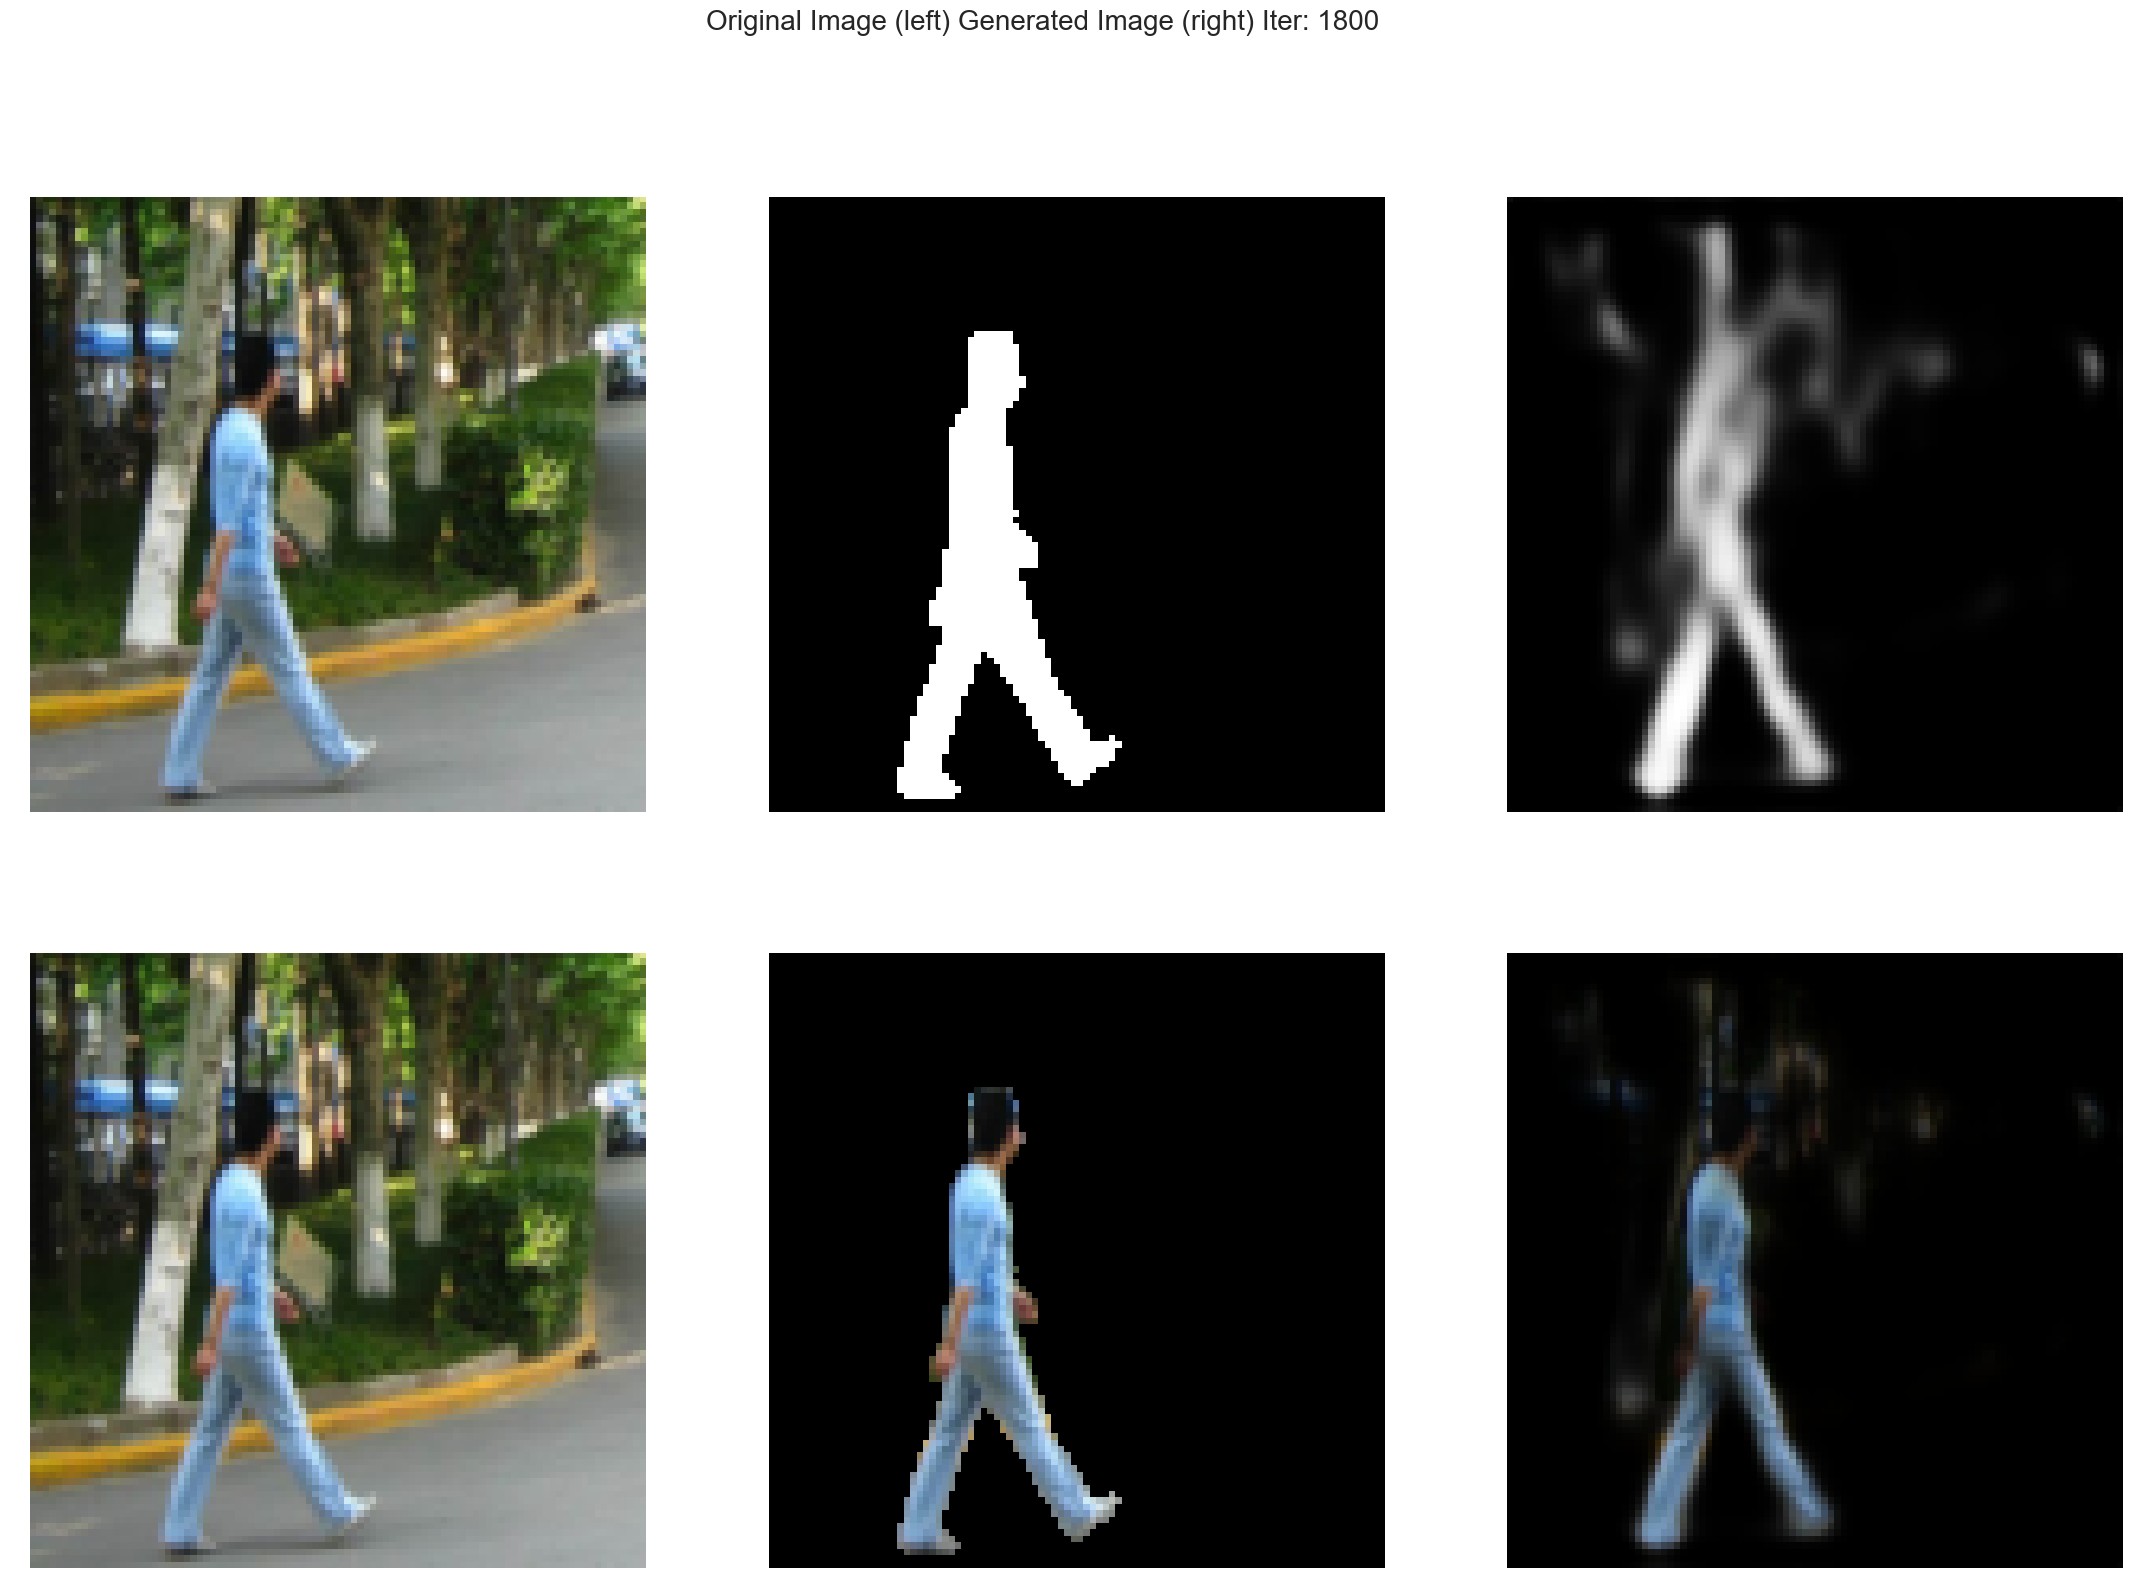
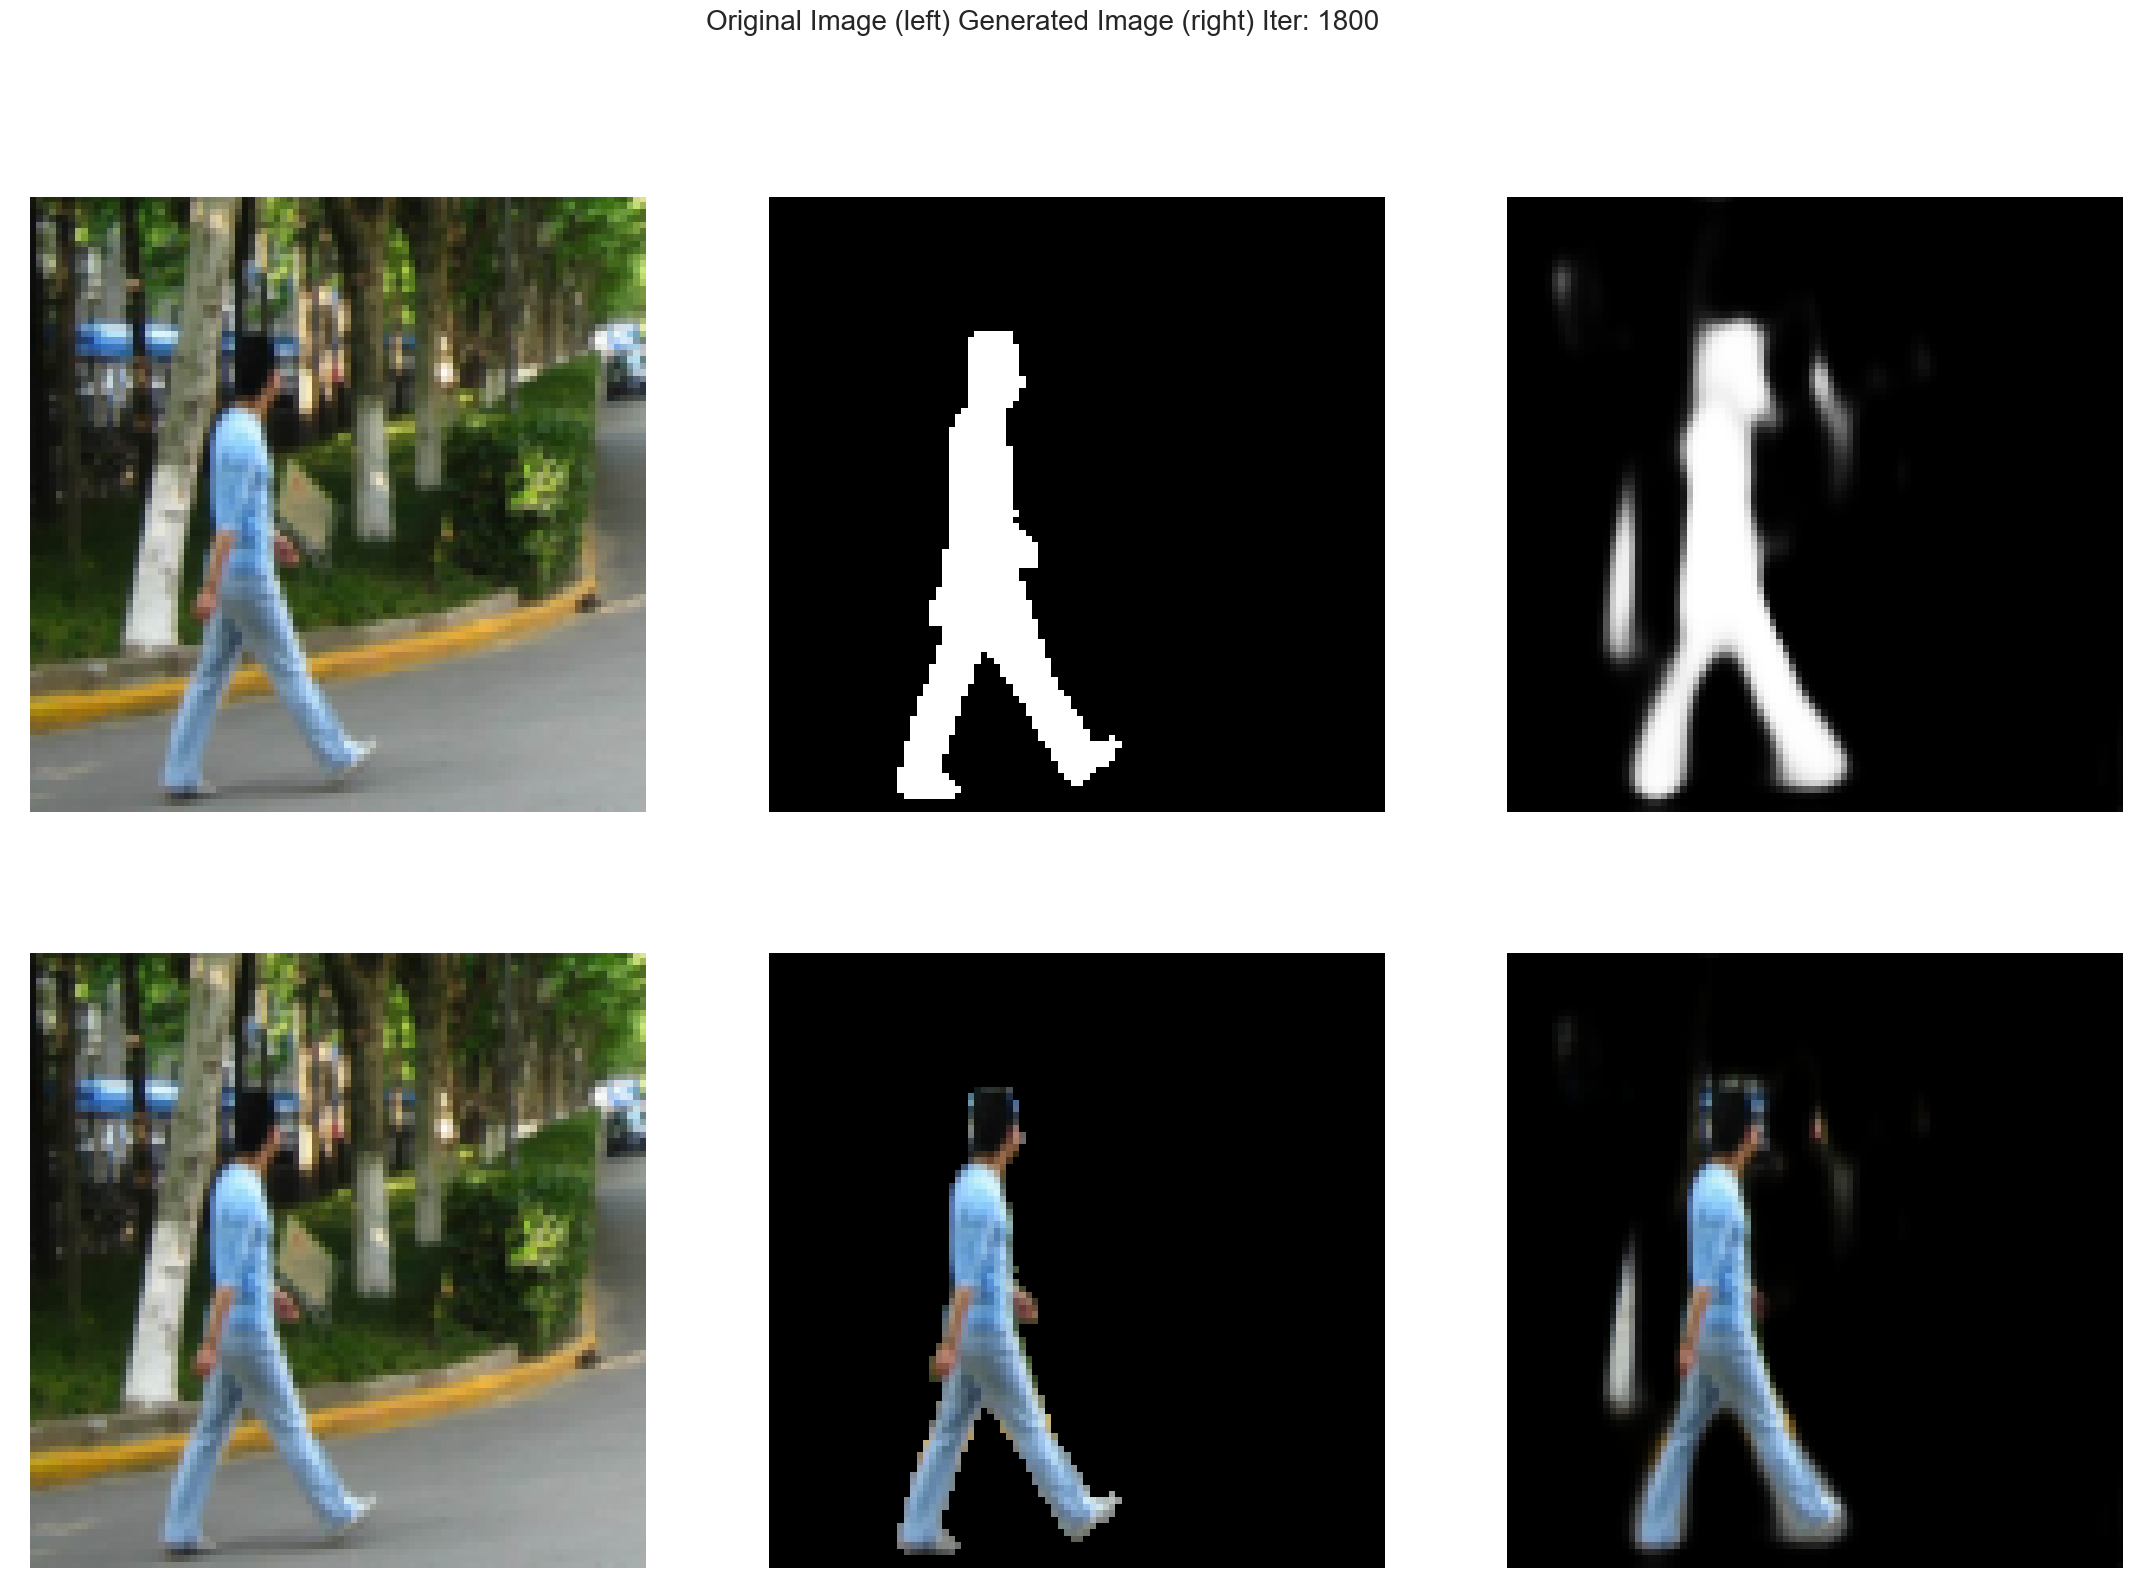
s

diff --git a/NeuralNetwork/Sparse_Auto/a_final_sparse.py b/NeuralNetwork/Sparse_Auto/a_final_sparse.py
@@ -329,7 +329,7 @@ el2 = CNN(3,8,16)
 el3 = CNN(3,16,32)
 el4 = CNN(3,32,8)
 
-reduce_dim = 4
+reduce_dim = 9
 sparse_layer = Sparse_Filter_Layer(6*6*8,1*1*reduce_dim)
 
 dl0 = CNN_Trans(3,8,1)
@@ -369,7 +369,7 @@ sparse_layer_input = tf.reshape(sparse_input,[batch_size,-1])
 sparse_layer_value0,sparse_cost0 = sparse_layer.feedforward(sparse_layer_input)
 
 sparse_layer_value = sparse_layer_value0
-dlayer0_input = tf.reshape(sparse_layer_value,[batch_size,2,2,1])
+dlayer0_input = tf.reshape(sparse_layer_value,[batch_size,3,3,1])
 dlayer0_input = tf.image.resize_images(dlayer0_input, [6, 6],method=tf.image.ResizeMethod.BILINEAR,align_corners=True)
 dlayer0_input2 = tf.cast(dlayer0_input,dtype=tf.float64)
 dlayer0 = dl0.feedforward(dlayer0_input2,stride=1) # 3 3
